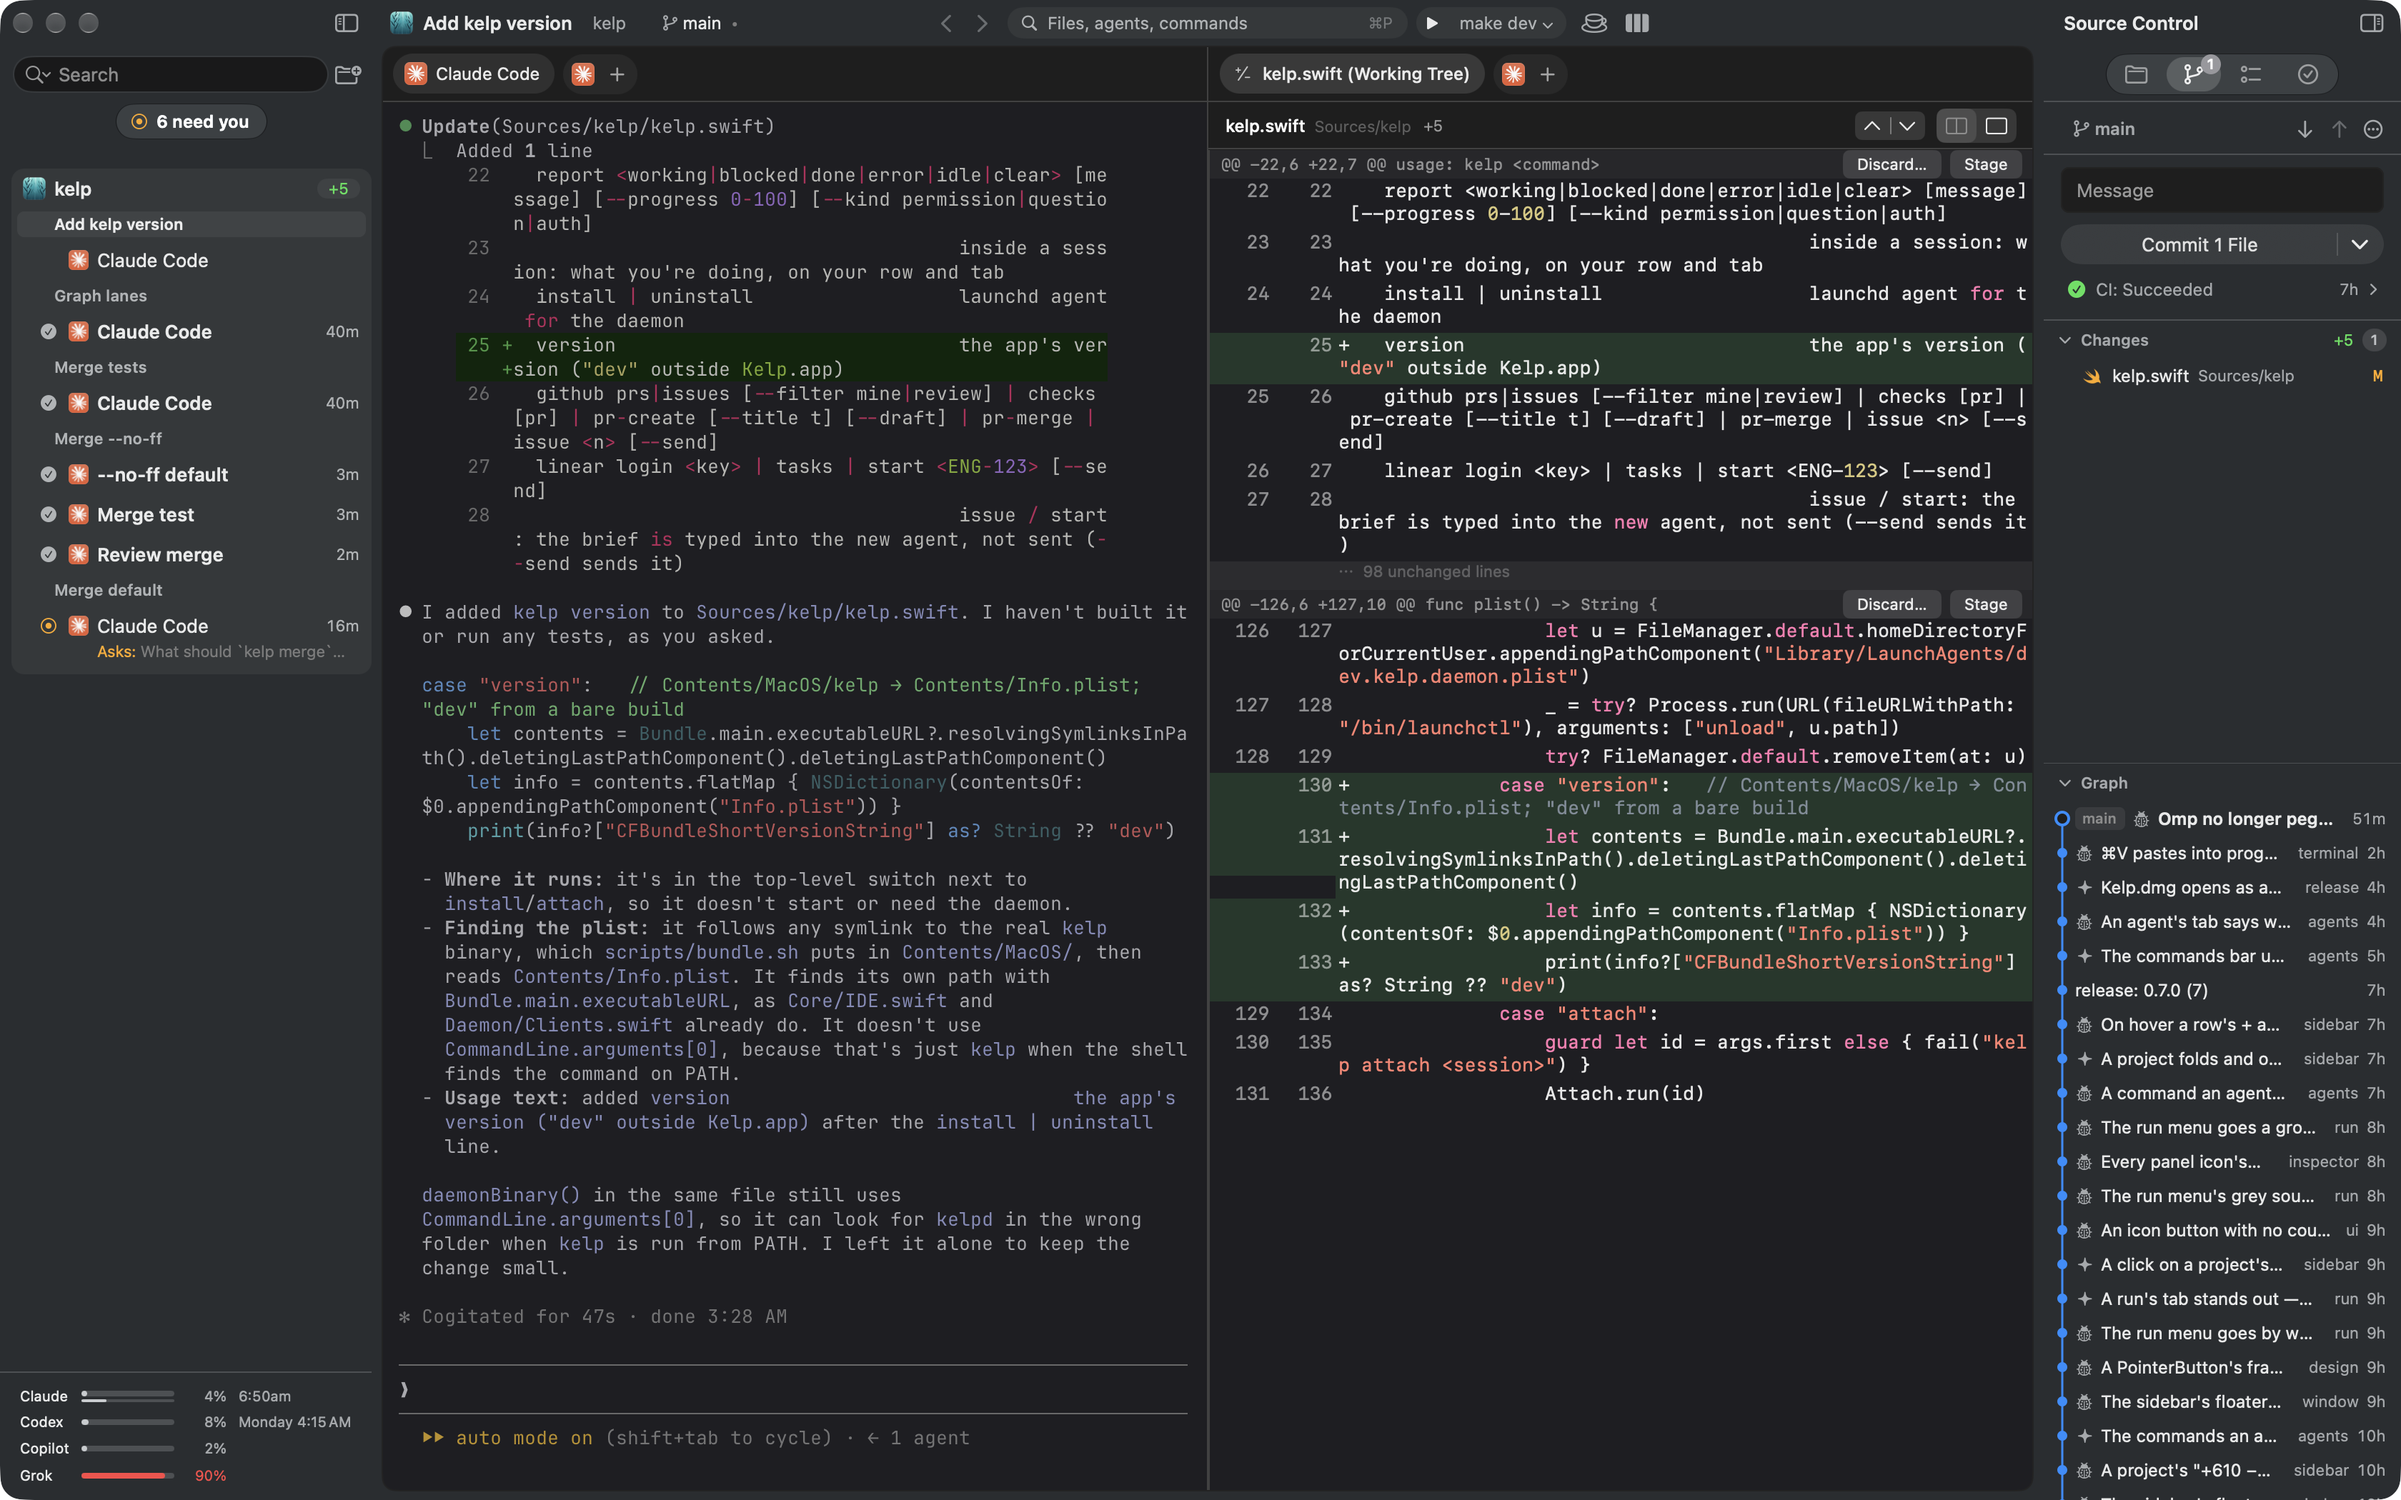
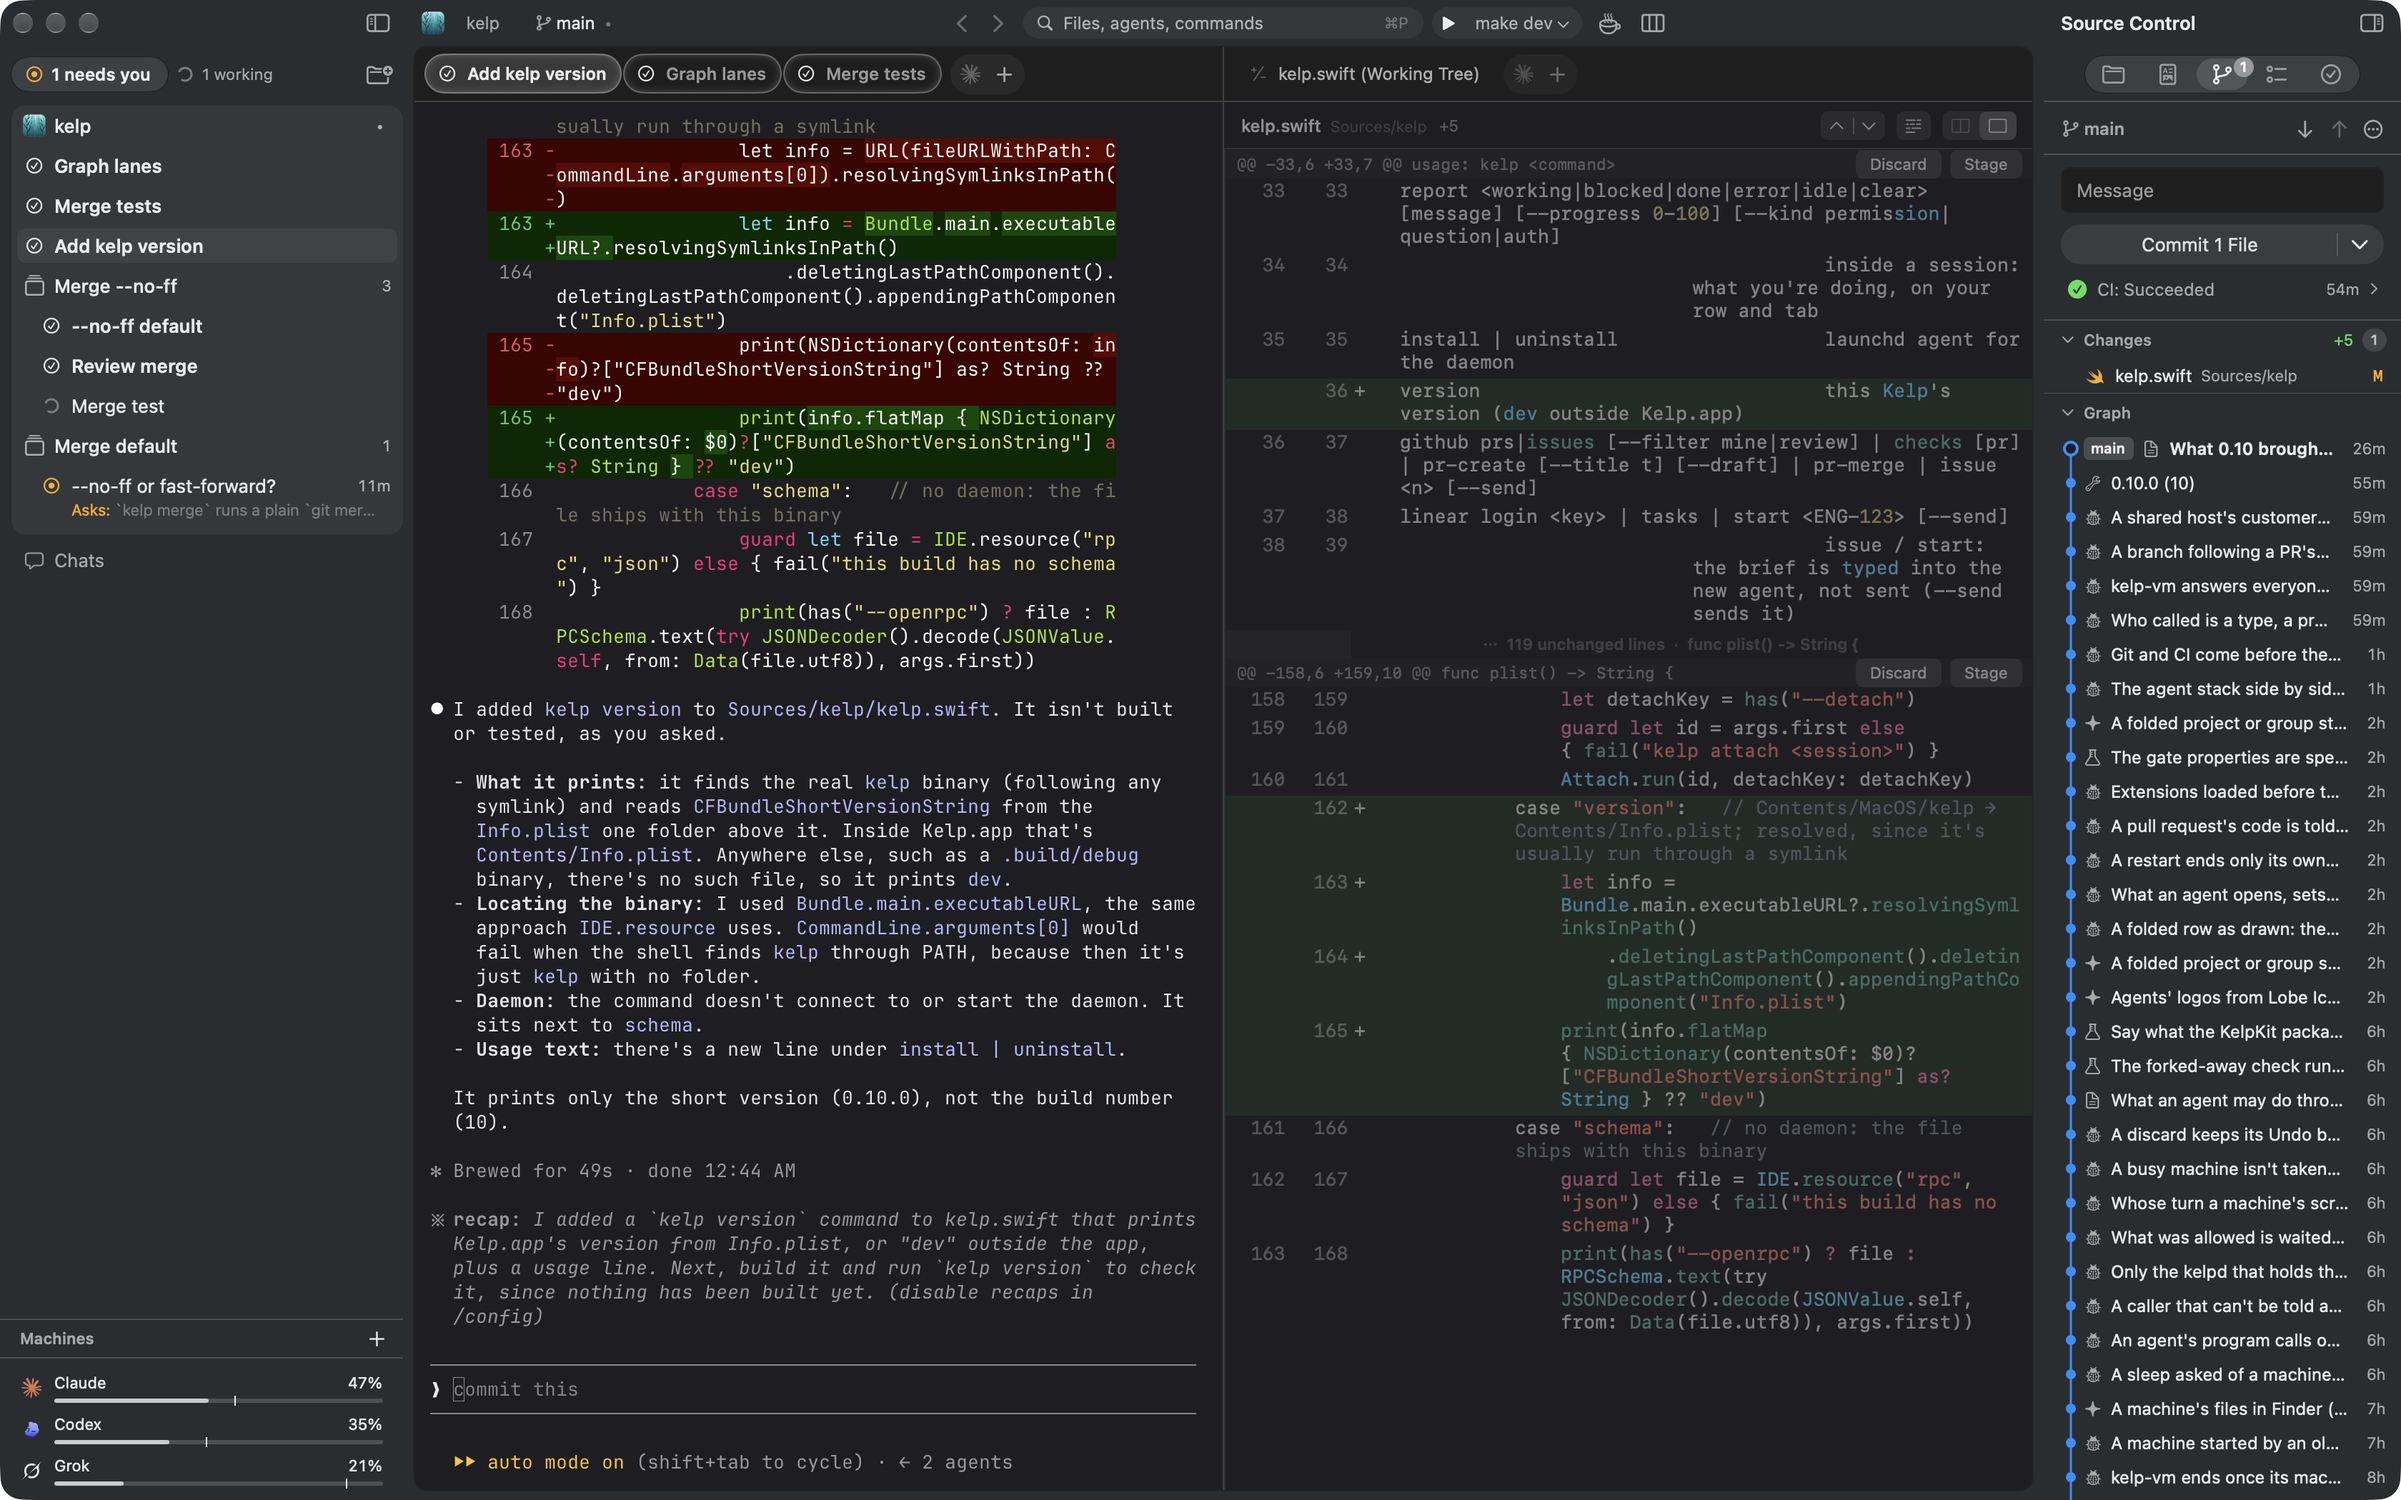
docs(readme): screenshots of 0.10 — three Claude Code agents at work beside Ops.swift, an agent's change next to its diff and Source Control, an agent asking with its question on its row

diff --git a/README.md b/README.md
@@ -64,7 +64,7 @@ Each agent's state sits on its row in the sidebar: working, finished, or waiting
 Nothing to set up: Kelp knows it from the agent itself, and says so when it's only reading the screen.
 <kbd>⇧⌘U</kbd> goes to the next one that needs you. Allow a command or send a reply straight from the notification.
 
-<img src="docs/screenshots/agent-asks.png" alt="An agent waiting on a question; its row in the sidebar shows the question and the capsule counts who needs you" />
+<img src="docs/screenshots/agent-asks.png" alt="An agent waiting on a question, its choices in the terminal; its row in the sidebar shows the question" />
 
 ### 3. Read what they did
 
